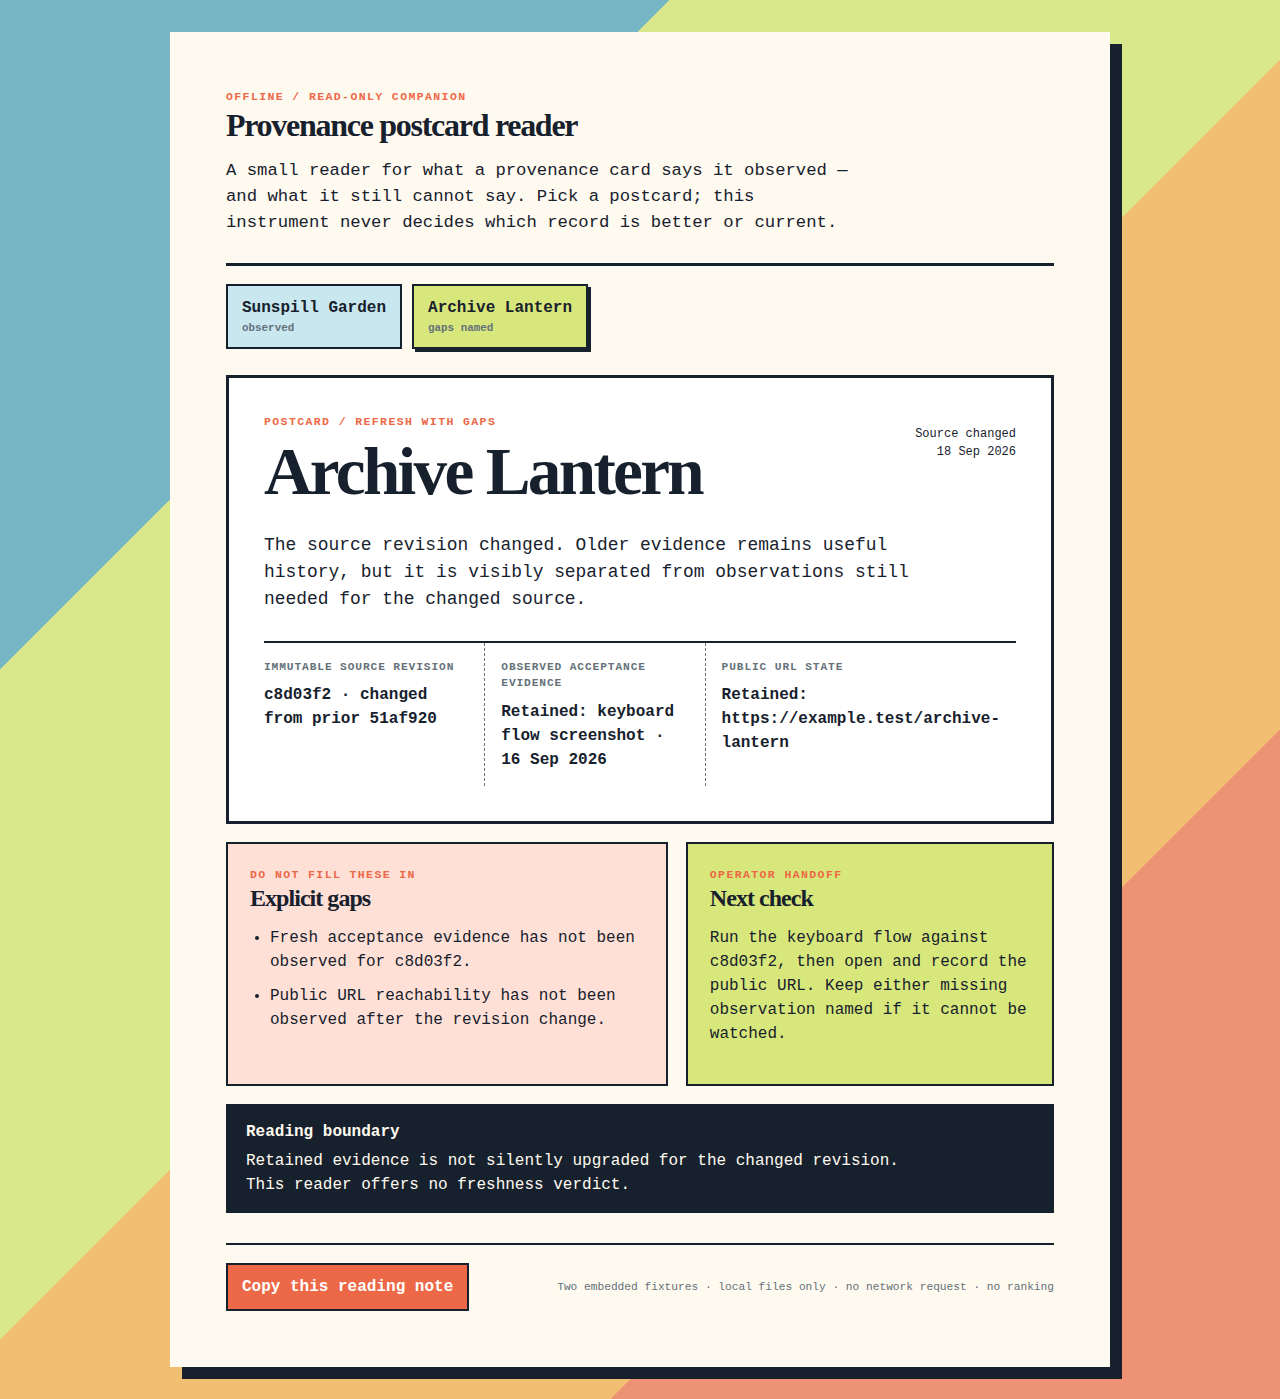
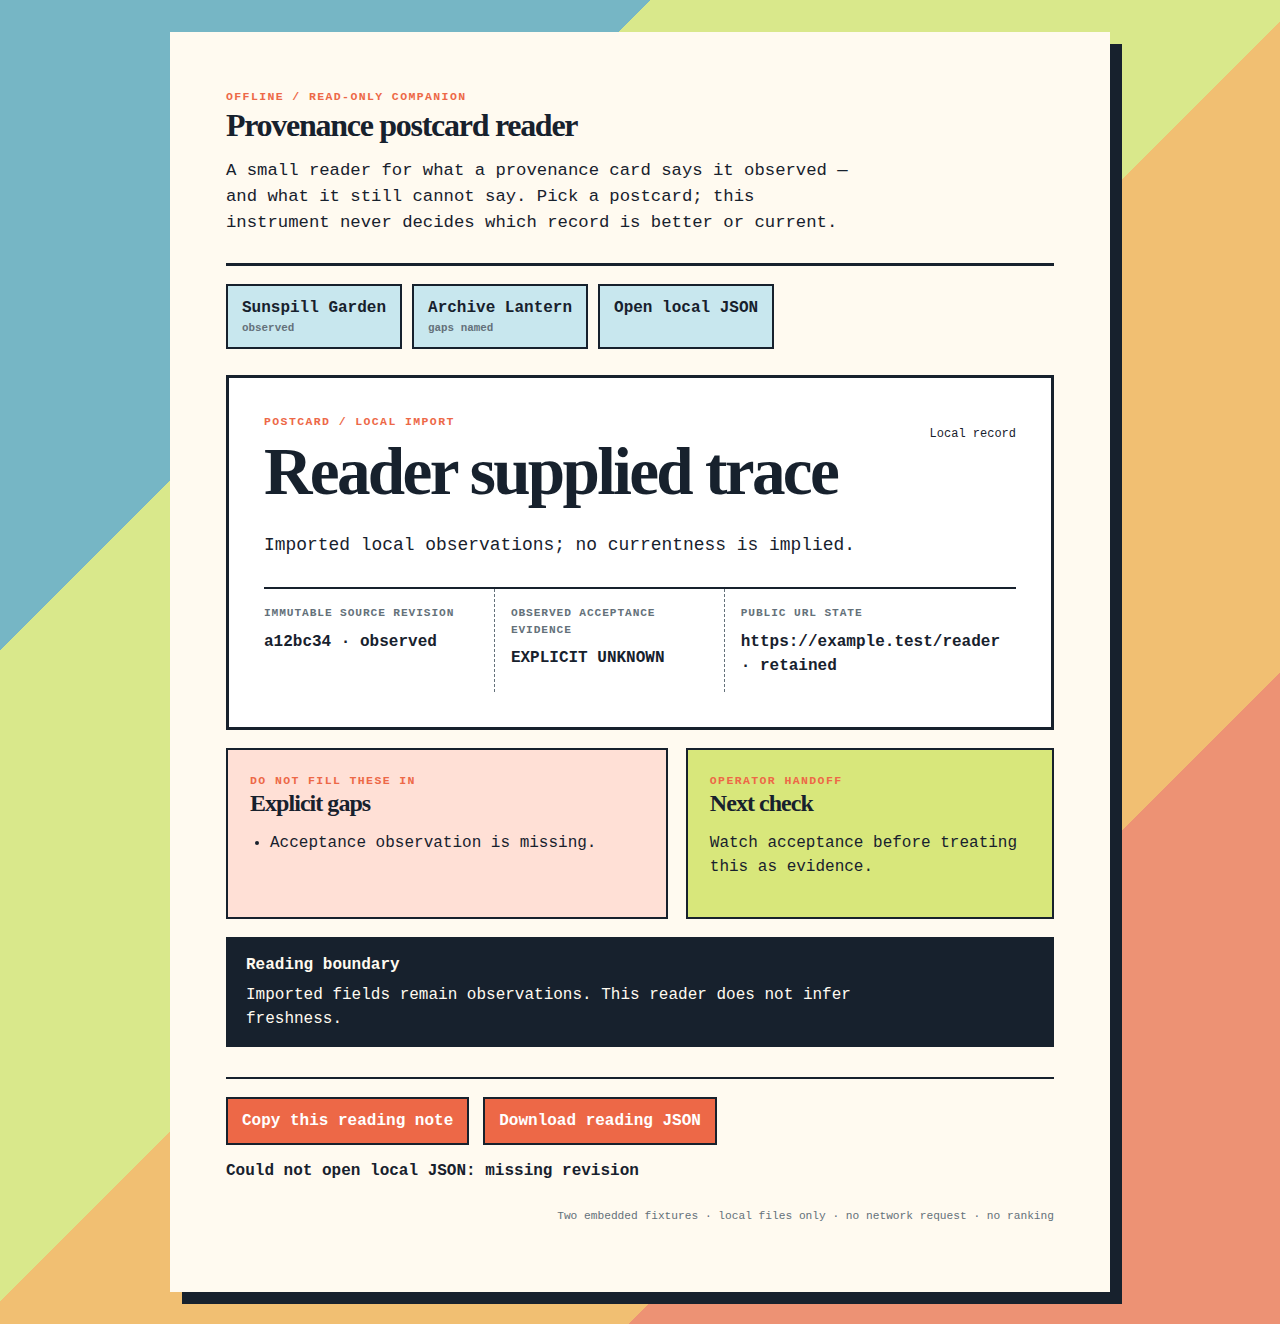
Allow local provenance postcard imports

diff --git a/provenance-postcard-reader/style.css b/provenance-postcard-reader/style.css
@@ -1,1 +1,1 @@
-:root{--ink:#17212d;--paper:#fffaf0;--sky:#c8e7ee;--sun:#ed6847;--lime:#d8e77b;--muted:#64717a}*{box-sizing:border-box}body{margin:0;background:linear-gradient(135deg,#76b6c5 0 25%,#d9e88b 25% 50%,#f1bf72 50% 75%,#ed9274 75%);color:var(--ink);font:16px/1.5 ui-monospace,SFMono-Regular,Consolas,monospace}main{max-width:940px;margin:32px auto;padding:clamp(24px,5vw,56px);background:var(--paper);box-shadow:12px 12px 0 var(--ink)}h1,h2{font-family:Georgia,serif;letter-spacing:-.04em;line-height:.95;margin:.15em 0}.eyebrow{font-size:.72rem;font-weight:900;letter-spacing:.12em;color:var(--sun);margin:0}.lede{max-width:60ch;font-size:1.08rem}nav{display:flex;gap:10px;flex-wrap:wrap;border-top:3px solid var(--ink);padding-top:18px;margin-top:28px}.fixture,footer button{border:2px solid var(--ink);background:var(--sky);padding:10px 14px;color:var(--ink);font:inherit;font-weight:bold;cursor:pointer}.fixture span{display:block;font-size:.68rem;text-align:left;color:var(--muted)}.fixture.active,.fixture:hover{background:var(--lime);box-shadow:3px 3px 0 var(--ink)}.card{margin-top:26px;border:3px solid var(--ink);padding:clamp(18px,4vw,35px);background:white}.card-head{display:flex;gap:20px;justify-content:space-between;align-items:start}.card h2{font-size:clamp(2.1rem,6vw,4.2rem)}.stamp{font-size:.75rem;max-width:16ch;text-align:right}.summary{max-width:66ch;font-size:1.12rem}.facts{margin:28px 0 0;display:grid;grid-template-columns:repeat(3,1fr);border-top:2px solid var(--ink)}.facts div{padding:16px 16px 6px 0}.facts div+div{border-left:1px dashed var(--muted);padding-left:16px}.facts dt{font-size:.7rem;font-weight:bold;text-transform:uppercase;letter-spacing:.08em;color:var(--muted)}.facts dd{margin:8px 0;font-weight:bold}.reading-grid{display:grid;grid-template-columns:1.2fr 1fr;gap:18px;margin-top:18px}.reading-grid article{padding:22px;border:2px solid var(--ink)}.gaps{background:#ffe0d6}.next{background:var(--lime)}.gaps ul{padding-left:20px}.gaps li{margin:10px 0}aside{margin-top:18px;padding:16px 20px;background:var(--ink);color:var(--paper)}aside p{margin:.35em 0 0;max-width:70ch}footer{display:flex;align-items:center;gap:14px;flex-wrap:wrap;border-top:2px solid var(--ink);margin-top:30px;padding-top:18px}footer button{background:var(--sun);color:white}footer p{font-size:.7rem;margin-left:auto;color:var(--muted)}output{font-weight:bold}@media(max-width:620px){main{margin:0;box-shadow:none}.facts,.reading-grid{grid-template-columns:1fr}.facts div+div{border-left:0;border-top:1px dashed var(--muted);padding-left:0}.stamp{text-align:left}.card-head{display:block}footer p{margin:0}}@media print{body{background:white}main{margin:0;box-shadow:none}.fixture,footer{display:none}}
+:root{--ink:#17212d;--paper:#fffaf0;--sky:#c8e7ee;--sun:#ed6847;--lime:#d8e77b;--muted:#64717a}*{box-sizing:border-box}body{margin:0;background:linear-gradient(135deg,#76b6c5 0 25%,#d9e88b 25% 50%,#f1bf72 50% 75%,#ed9274 75%);color:var(--ink);font:16px/1.5 ui-monospace,SFMono-Regular,Consolas,monospace}main{max-width:940px;margin:32px auto;padding:clamp(24px,5vw,56px);background:var(--paper);box-shadow:12px 12px 0 var(--ink)}h1,h2{font-family:Georgia,serif;letter-spacing:-.04em;line-height:.95;margin:.15em 0}.eyebrow{font-size:.72rem;font-weight:900;letter-spacing:.12em;color:var(--sun);margin:0}.lede{max-width:60ch;font-size:1.08rem}nav{display:flex;gap:10px;flex-wrap:wrap;border-top:3px solid var(--ink);padding-top:18px;margin-top:28px}.fixture,.import,footer button{border:2px solid var(--ink);background:var(--sky);padding:10px 14px;color:var(--ink);font:inherit;font-weight:bold;cursor:pointer}.import input{display:none}.fixture span{display:block;font-size:.68rem;text-align:left;color:var(--muted)}.fixture.active,.fixture:hover,.import:hover{background:var(--lime);box-shadow:3px 3px 0 var(--ink)}.card{margin-top:26px;border:3px solid var(--ink);padding:clamp(18px,4vw,35px);background:white}.card-head{display:flex;gap:20px;justify-content:space-between;align-items:start}.card h2{font-size:clamp(2.1rem,6vw,4.2rem)}.stamp{font-size:.75rem;max-width:16ch;text-align:right}.summary{max-width:66ch;font-size:1.12rem}.facts{margin:28px 0 0;display:grid;grid-template-columns:repeat(3,1fr);border-top:2px solid var(--ink)}.facts div{padding:16px 16px 6px 0}.facts div+div{border-left:1px dashed var(--muted);padding-left:16px}.facts dt{font-size:.7rem;font-weight:bold;text-transform:uppercase;letter-spacing:.08em;color:var(--muted)}.facts dd{margin:8px 0;font-weight:bold}.reading-grid{display:grid;grid-template-columns:1.2fr 1fr;gap:18px;margin-top:18px}.reading-grid article{padding:22px;border:2px solid var(--ink)}.gaps{background:#ffe0d6}.next{background:var(--lime)}.gaps ul{padding-left:20px}.gaps li{margin:10px 0}aside{margin-top:18px;padding:16px 20px;background:var(--ink);color:var(--paper)}aside p{margin:.35em 0 0;max-width:70ch}footer{display:flex;align-items:center;gap:14px;flex-wrap:wrap;border-top:2px solid var(--ink);margin-top:30px;padding-top:18px}footer button{background:var(--sun);color:white}footer p{font-size:.7rem;margin-left:auto;color:var(--muted)}output{font-weight:bold}@media(max-width:620px){main{margin:0;box-shadow:none}.facts,.reading-grid{grid-template-columns:1fr}.facts div+div{border-left:0;border-top:1px dashed var(--muted);padding-left:0}.stamp{text-align:left}.card-head{display:block}footer p{margin:0}}@media print{body{background:white}main{margin:0;box-shadow:none}.fixture,footer{display:none}}

diff --git a/provenance-postcard-reader/app.js b/provenance-postcard-reader/app.js
@@ -2,4 +2,6 @@ const cards={garden:{kind:'POSTCARD / RETAINED OBSERVATION',title:'Sunspill Gard
 let selected='garden';const $=id=>document.getElementById(id);
 function render(){const c=cards[selected];for(const key of ['kind','title','stamp','summary','revision','acceptance','url','next','boundary'])$(key).textContent=c[key];$('gaps').innerHTML=c.gaps.map(g=>`<li>${g}</li>`).join('');document.querySelectorAll('.fixture').forEach(b=>b.classList.toggle('active',b.dataset.id===selected));$('notice').textContent='';}
 document.querySelectorAll('.fixture').forEach(b=>b.addEventListener('click',()=>{selected=b.dataset.id;render()}));
-$('copy').addEventListener('click',async()=>{const c=cards[selected],note=`${c.title}\nRevision: ${c.revision}\nAcceptance: ${c.acceptance}\nURL: ${c.url}\nGaps: ${c.gaps.join(' | ')}\nNext: ${c.next}`;try{await navigator.clipboard.writeText(note);$('notice').textContent='Reading note copied.'}catch{$('notice').textContent='Copy unavailable in this direct-file browser; select the card text instead.'}});render();
+$('copy').addEventListener('click',async()=>{const c=cards[selected],note=`${c.title}\nRevision: ${c.revision}\nAcceptance: ${c.acceptance}\nURL: ${c.url}\nGaps: ${c.gaps.join(' | ')}\nNext: ${c.next}`;try{await navigator.clipboard.writeText(note);$('notice').textContent='Reading note copied.'}catch{$('notice').textContent='Copy unavailable in this direct-file browser; select the card text instead.'}});
+$('file').addEventListener('change',async e=>{const file=e.target.files[0];if(!file)return;try{const c=JSON.parse(await file.text());for(const key of ['title','revision','acceptance','url','gaps','next'])if(!(key in c))throw Error('missing '+key);if(!Array.isArray(c.gaps))throw Error('gaps must be a list');cards.imported={kind:c.kind||'POSTCARD / LOCAL IMPORT',title:c.title,stamp:c.stamp||'Local record',summary:c.summary||'Imported local observations; no currentness is implied.',revision:c.revision,acceptance:c.acceptance,url:c.url,gaps:c.gaps,next:c.next,boundary:c.boundary||'Imported fields remain observations. This reader does not infer freshness.'};selected='imported';render();$('notice').textContent='Local record opened; its fields were not changed.'}catch(err){$('notice').textContent='Could not open local JSON: '+err.message;}finally{e.target.value=''}});
+$('download').addEventListener('click',()=>{const c=cards[selected];const a=document.createElement('a');a.href=URL.createObjectURL(new Blob([JSON.stringify(c,null,2)],{type:'application/json'}));a.download='provenance-postcard-reading.json';a.click();URL.revokeObjectURL(a.href);$('notice').textContent='Reading JSON downloaded.'});render();

diff --git a/provenance-postcard-reader/index.html b/provenance-postcard-reader/index.html
@@ -2,9 +2,9 @@
 <html lang="en"><head><meta charset="utf-8"><meta name="viewport" content="width=device-width,initial-scale=1"><title>Provenance postcard reader</title><link rel="stylesheet" href="style.css"></head>
 <body><main>
 <header><p class="eyebrow">OFFLINE / READ-ONLY COMPANION</p><h1>Provenance postcard reader</h1><p class="lede">A small reader for what a provenance card says it observed — and what it still cannot say. Pick a postcard; this instrument never decides which record is better or current.</p></header>
-<nav aria-label="Postcard fixtures"><button class="fixture active" data-id="garden">Sunspill Garden <span>observed</span></button><button class="fixture" data-id="archive">Archive Lantern <span>gaps named</span></button></nav>
+<nav aria-label="Postcard fixtures"><button class="fixture active" data-id="garden">Sunspill Garden <span>observed</span></button><button class="fixture" data-id="archive">Archive Lantern <span>gaps named</span></button><label class="import">Open local JSON <input id="file" type="file" accept="application/json,.json"></label></nav>
 <section class="card" aria-live="polite"><div class="card-head"><div><p id="kind" class="eyebrow"></p><h2 id="title"></h2></div><p id="stamp" class="stamp"></p></div><p id="summary" class="summary"></p><dl class="facts"><div><dt>Immutable source revision</dt><dd id="revision"></dd></div><div><dt>Observed acceptance evidence</dt><dd id="acceptance"></dd></div><div><dt>Public URL state</dt><dd id="url"></dd></div></dl></section>
 <section class="reading-grid"><article class="gaps"><p class="eyebrow">DO NOT FILL THESE IN</p><h2>Explicit gaps</h2><ul id="gaps"></ul></article><article class="next"><p class="eyebrow">OPERATOR HANDOFF</p><h2>Next check</h2><p id="next"></p></article></section>
 <aside><strong>Reading boundary</strong><p id="boundary"></p></aside>
-<footer><button id="copy">Copy this reading note</button><output id="notice" aria-live="polite"></output><p>Two embedded fixtures · local files only · no network request · no ranking</p></footer>
+<footer><button id="copy">Copy this reading note</button><button id="download">Download reading JSON</button><output id="notice" aria-live="polite"></output><p>Two embedded fixtures · local files only · no network request · no ranking</p></footer>
 </main><script src="app.js"></script></body></html>
